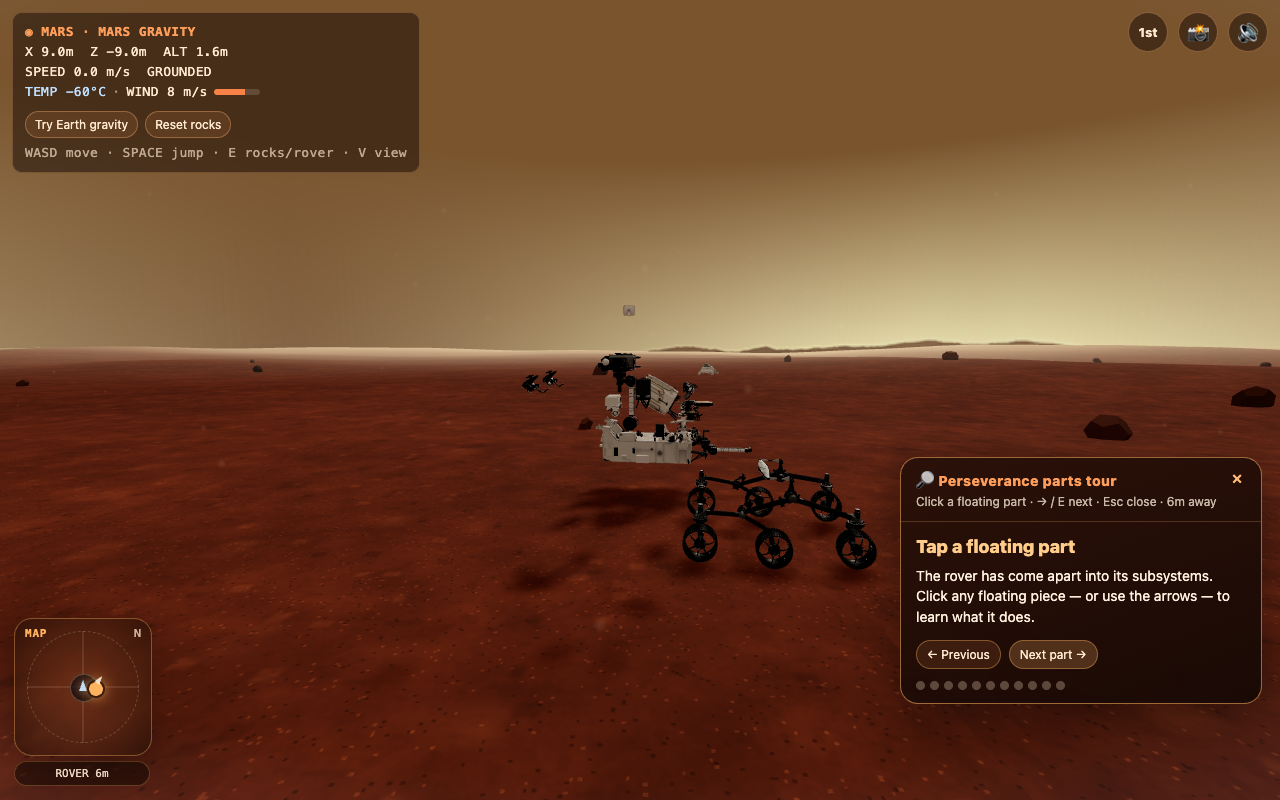
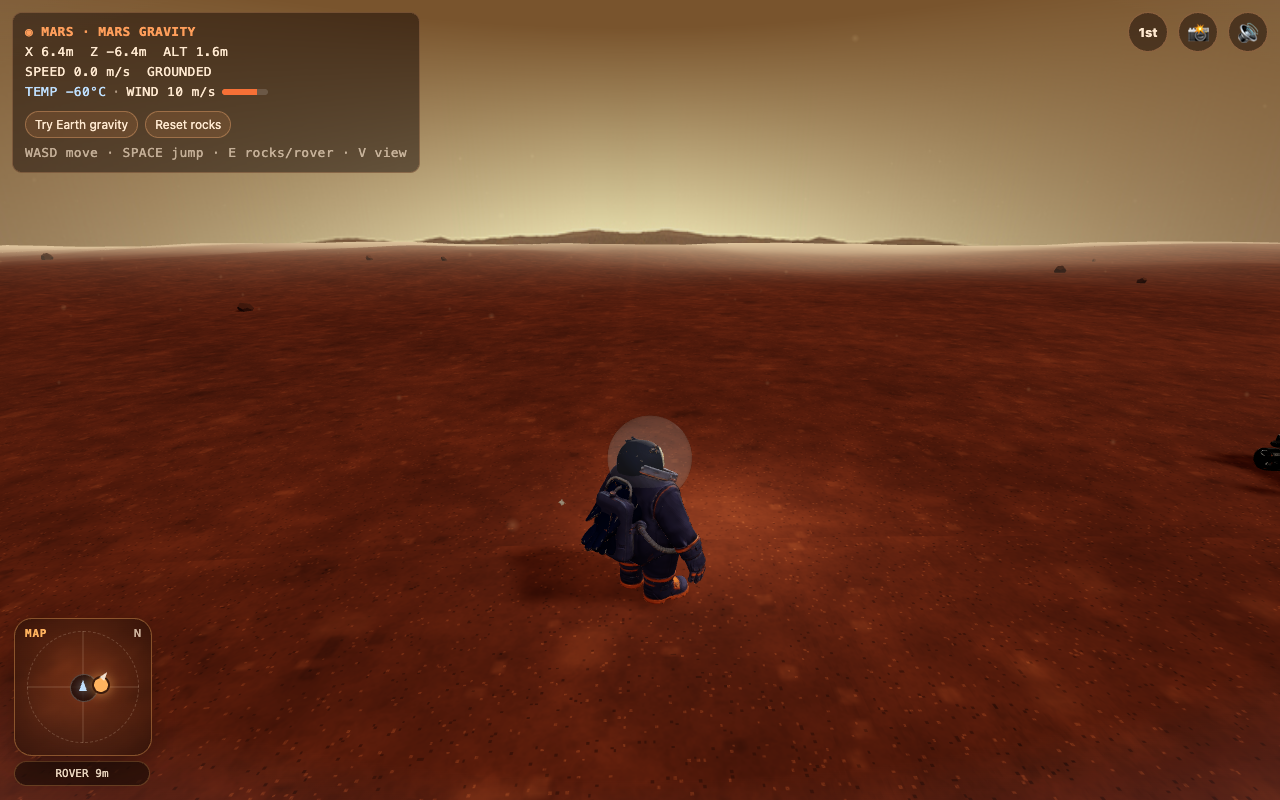
feat(mars): hero-center the selected rover part; drop broken drill entry
- The chosen part now glides to a 'hero' spot at screen centre (a point
  in front of the camera, offset by the part's centroid so its geometric
  centre lands on screen), making it obvious which part the card
  describes. Size-friendly distance; tracks live centre until it arrives,
  then locks so it doesn't glue to the camera as you look around.
- Tour opens with the first part selected by default (was 'nothing').
- Non-selected parts ease back to their ring slot. Hero offset is scaled
  by the explode factor so closing still reassembles cleanly.
- Removed the 'drill' part: its coring_drill node doesn't exist in this
  GLB (audited all 10) so it highlighted/centred nothing. The drill
  geometry is fused into the arm turret and can't be split out.

Verified via tools/mars-preview walkto.mjs: wheels + RTG centre and glow
cyan up close; node audit confirms only 'drill' was unmatched.

Claude-Session: https://claude.ai/code/session_01UuNPTjgu6qHRcfjKrtqiQu

diff --git a/packages/space/src/mars/scene/Rover.jsx b/packages/space/src/mars/scene/Rover.jsx
@@ -25,10 +25,16 @@ const MODEL_YAW_OFFSET = -Math.PI / 4;
 const TOUR_CENTER_LIFT = 1.35;
 // Keep dragged parts from being shoved into the regolith (world metres of clearance).
 const PART_CLEARANCE = 0.3;
+// Distance (world metres) in front of the camera the selected part floats to — its
+// "hero" spot at screen centre so it's clear which part the card is describing.
+const HERO_DIST = 3.2;
 const q = new THREE.Quaternion();
 const e = new THREE.Euler(0, 0, 0, 'XYZ');
 const tmpV = new THREE.Vector3();
 const tmpV2 = new THREE.Vector3();
+const camPos = new THREE.Vector3();
+const camDir = new THREE.Vector3();
+const heroLocalTmp = new THREE.Vector3();
 
 function cloneRover(scene) {
   const clone = scene.clone(true);
@@ -119,7 +125,10 @@ function buildShells(model) {
     shell.userData.partId = id;
     shell.userData.dir = fanDir(i, ordered.length);
     shell.userData.bobPhase = i * 1.7;
+    shell.userData.centroid = g.sum.clone();         // part's geometric centre (model-local)
     shell.userData.dragOffset = new THREE.Vector3(); // player-applied drag, in model space
+    shell.userData.heroTarget = new THREE.Vector3(); // model-local spot to fly to when selected
+    shell.userData.heroBlend = 0;                    // 0 = in the ring, 1 = centre stage
     model.add(shell);
     for (const leaf of g.leaves) shell.attach(leaf); // keeps world transform
     shells.push(shell);
@@ -208,6 +217,19 @@ export default function Rover() {
     q.setFromEuler(e);
     rb.setNextKinematicRotation(q);
 
+    // Screen-centre point in front of the camera, in model-local space. The chosen
+    // part glides here so it's clear which part the card describes. We keep tracking
+    // it while the part is still approaching, then lock it (so it doesn't stay glued
+    // to the camera when you look around) — this also survives the camera fly-in.
+    let heroLocal = null;
+    if (shells.current && selectedId) {
+      camera.getWorldPosition(camPos);
+      camera.getWorldDirection(camDir);
+      heroLocalTmp.copy(camPos).addScaledVector(camDir, HERO_DIST);
+      model.worldToLocal(heroLocalTmp);
+      heroLocal = heroLocalTmp;
+    }
+
     // If a part is being dragged, slide it along the camera-facing plane. Work in
     // model-local space so the offset composes with the fan animation and scale.
     if (dragShell.current && shells.current) {
@@ -229,7 +251,24 @@ export default function Rover() {
       for (const shell of shells.current) {
         const off = partOffset(shell.userData.dir, f, t, shell.userData.bobPhase);
         const d = shell.userData.dragOffset;
-        shell.position.set(off.x + d.x * f, off.y + d.y * f, off.z + d.z * f);
+        // Ease this part between its ring slot and centre stage. heroTarget is an
+        // absolute local point, so scale it by f too (everything collapses to the
+        // assembled pose as the tour closes).
+        const selected = shell.userData.partId === selectedId;
+        // Track live screen-centre until the part has arrived, then let it rest.
+        // Offset by the part's centroid so its geometric centre (not the shell
+        // origin) lands on screen — a spread-out part like the wheels centres right.
+        if (selected && heroLocal && (shell.userData.heroBlend < 0.985 || f < 0.985)) {
+          shell.userData.heroTarget.copy(heroLocal).sub(shell.userData.centroid);
+        }
+        shell.userData.heroBlend += ((selected ? 1 : 0) - shell.userData.heroBlend) * (1 - Math.exp(-dt * 4));
+        const hb = shell.userData.heroBlend;
+        const h = shell.userData.heroTarget;
+        shell.position.set(
+          THREE.MathUtils.lerp(off.x, h.x * f, hb) + d.x * f,
+          THREE.MathUtils.lerp(off.y, h.y * f, hb) + d.y * f,
+          THREE.MathUtils.lerp(off.z, h.z * f, hb) + d.z * f,
+        );
         // Floor the part you're dragging so it can't be pushed underground. Model
         // rotation is Y-only, so world Y = modelY + localY*scale — bake the lift
         // back into the drag offset so it stays put after release.

diff --git a/packages/space/src/mars/scene/roverParts.js b/packages/space/src/mars/scene/roverParts.js
@@ -31,13 +31,6 @@ export const ROVER_PARTS = [
     detail: 'The arm places tools exactly where scientists want measurements, like a careful space geologist.',
   },
   {
-    id: 'drill',
-    title: 'Coring drill',
-    nodes: ['coring_drill'],
-    summary: 'The drill cuts pencil-sized cores from interesting Mars rocks.',
-    detail: 'Those samples are sealed in tubes so a future mission can try to bring them back to Earth.',
-  },
-  {
     id: 'pixl',
     title: 'PIXL rock scanner',
     nodes: ['PIXL', 'PIXL_cover_01'],

diff --git a/tools/mars-preview/src/main.jsx b/tools/mars-preview/src/main.jsx
@@ -3,10 +3,12 @@ import { createRoot } from 'react-dom/client';
 // No StrictMode: its dev double-invoke double-inits the Rapier physics world.
 import MarsRoute from '../../../packages/space/src/mars/MarsRoute.jsx';
 import { marsStore } from '../../../packages/space/src/mars/store/marsStore.js';
+import { telemetry } from '../../../packages/space/src/mars/telemetry.js';
 import './styles.css';
 
-// Dev-only hook so headless screenshots can drive the rover tour (open/select)
-// without walking Luna across the terrain to the rover first. Harness-only.
+// Dev-only hooks so headless screenshots can drive the rover tour and read live
+// player/rover positions (to walk Luna up reliably). Harness-only.
 window.__mars = marsStore;
+window.__marsTel = telemetry;
 
 createRoot(document.getElementById('root')).render(<MarsRoute />);

diff --git a/packages/space/src/mars/store/marsStore.js b/packages/space/src/mars/store/marsStore.js
@@ -29,7 +29,7 @@ export const marsStore = {
   // Tour phase machine. openRoverTour starts the fly-apart; closeRoverTour begins
   // reassembly; finishCloseTour is called by the animation driver once the parts
   // have eased fully home so control returns to the player exactly on the beat.
-  openRoverTour: () => { if (state.roverTour === 'closed') marsStore.set({ roverTour: 'open', roverPartIndex: -1 }); },
+  openRoverTour: () => { if (state.roverTour === 'closed') marsStore.set({ roverTour: 'open', roverPartIndex: 0 }); },
   closeRoverTour: () => { if (state.roverTour !== 'closed') marsStore.set({ roverTour: 'closing' }); },
   finishCloseTour: () => marsStore.set({ roverTour: 'closed', roverPartIndex: -1 }),
   setRoverPartIndex: (roverPartIndex) => marsStore.set({ roverPartIndex }),